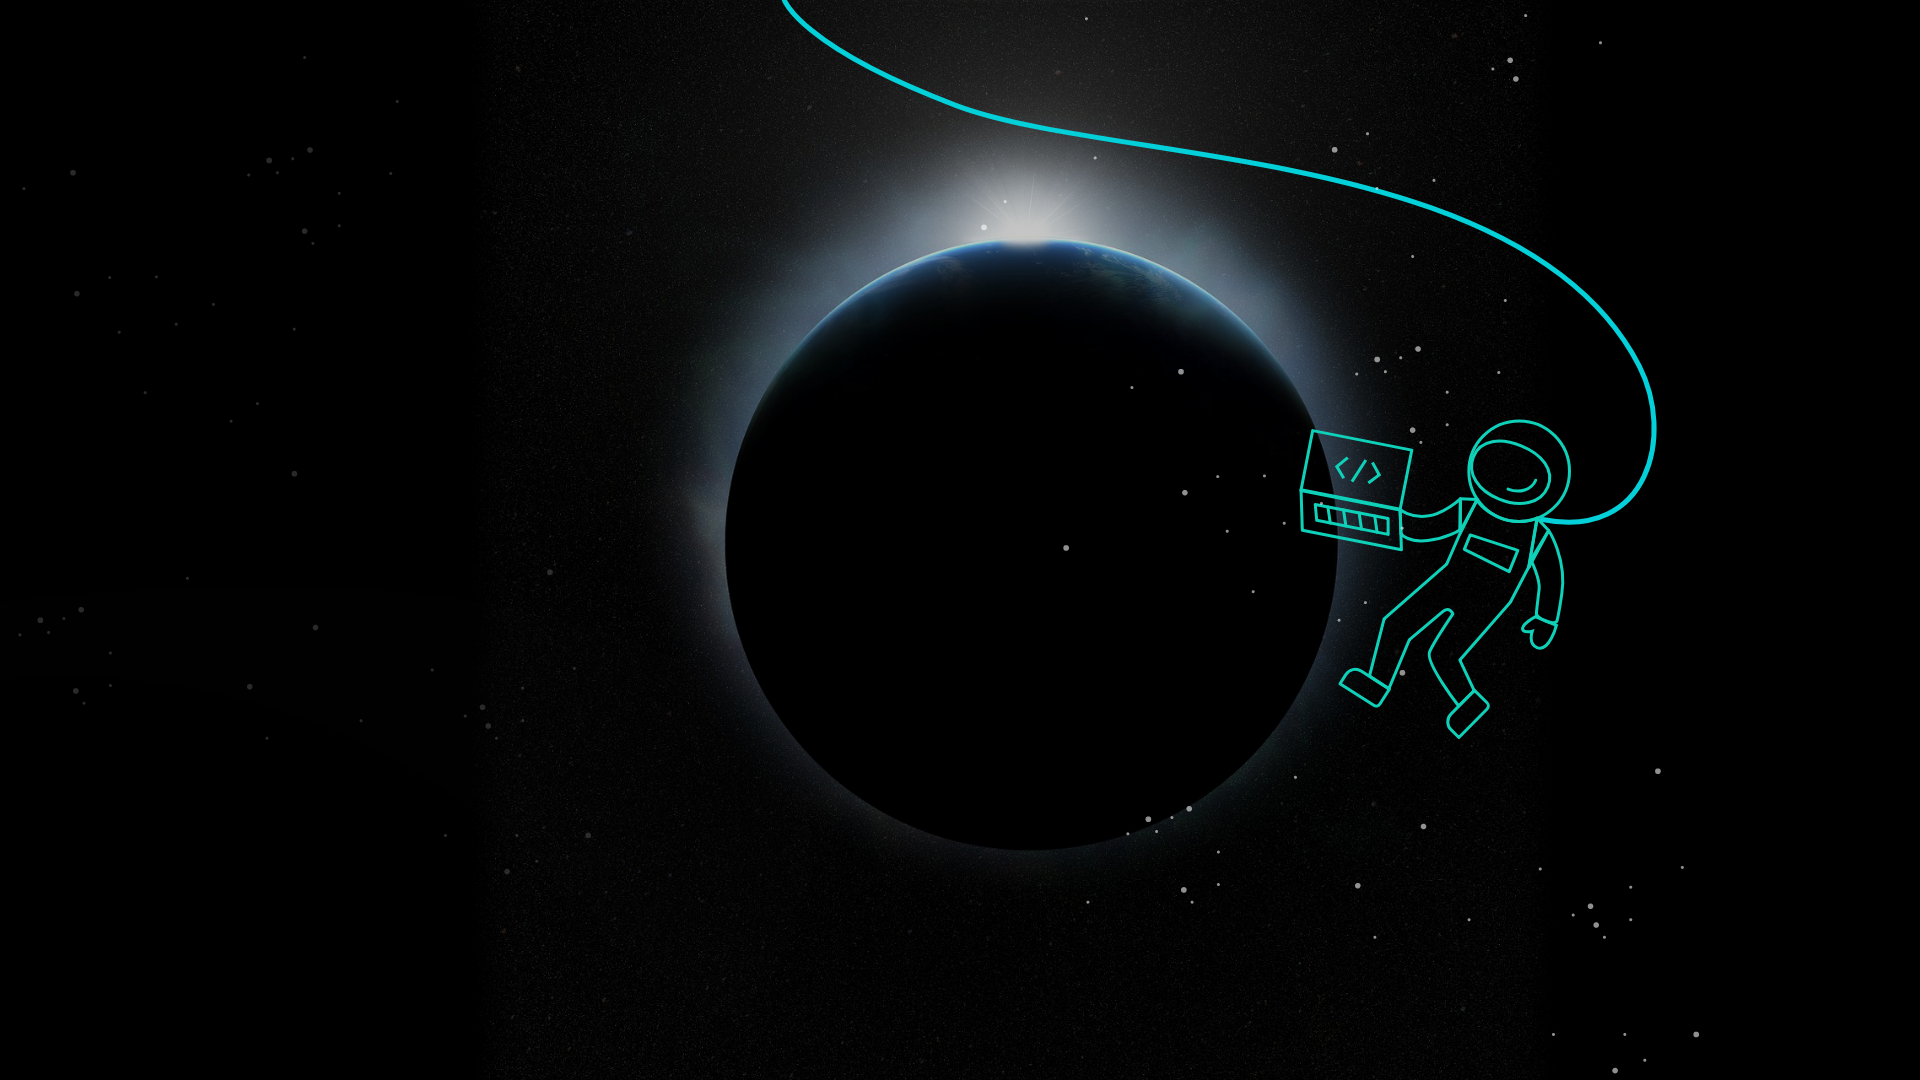
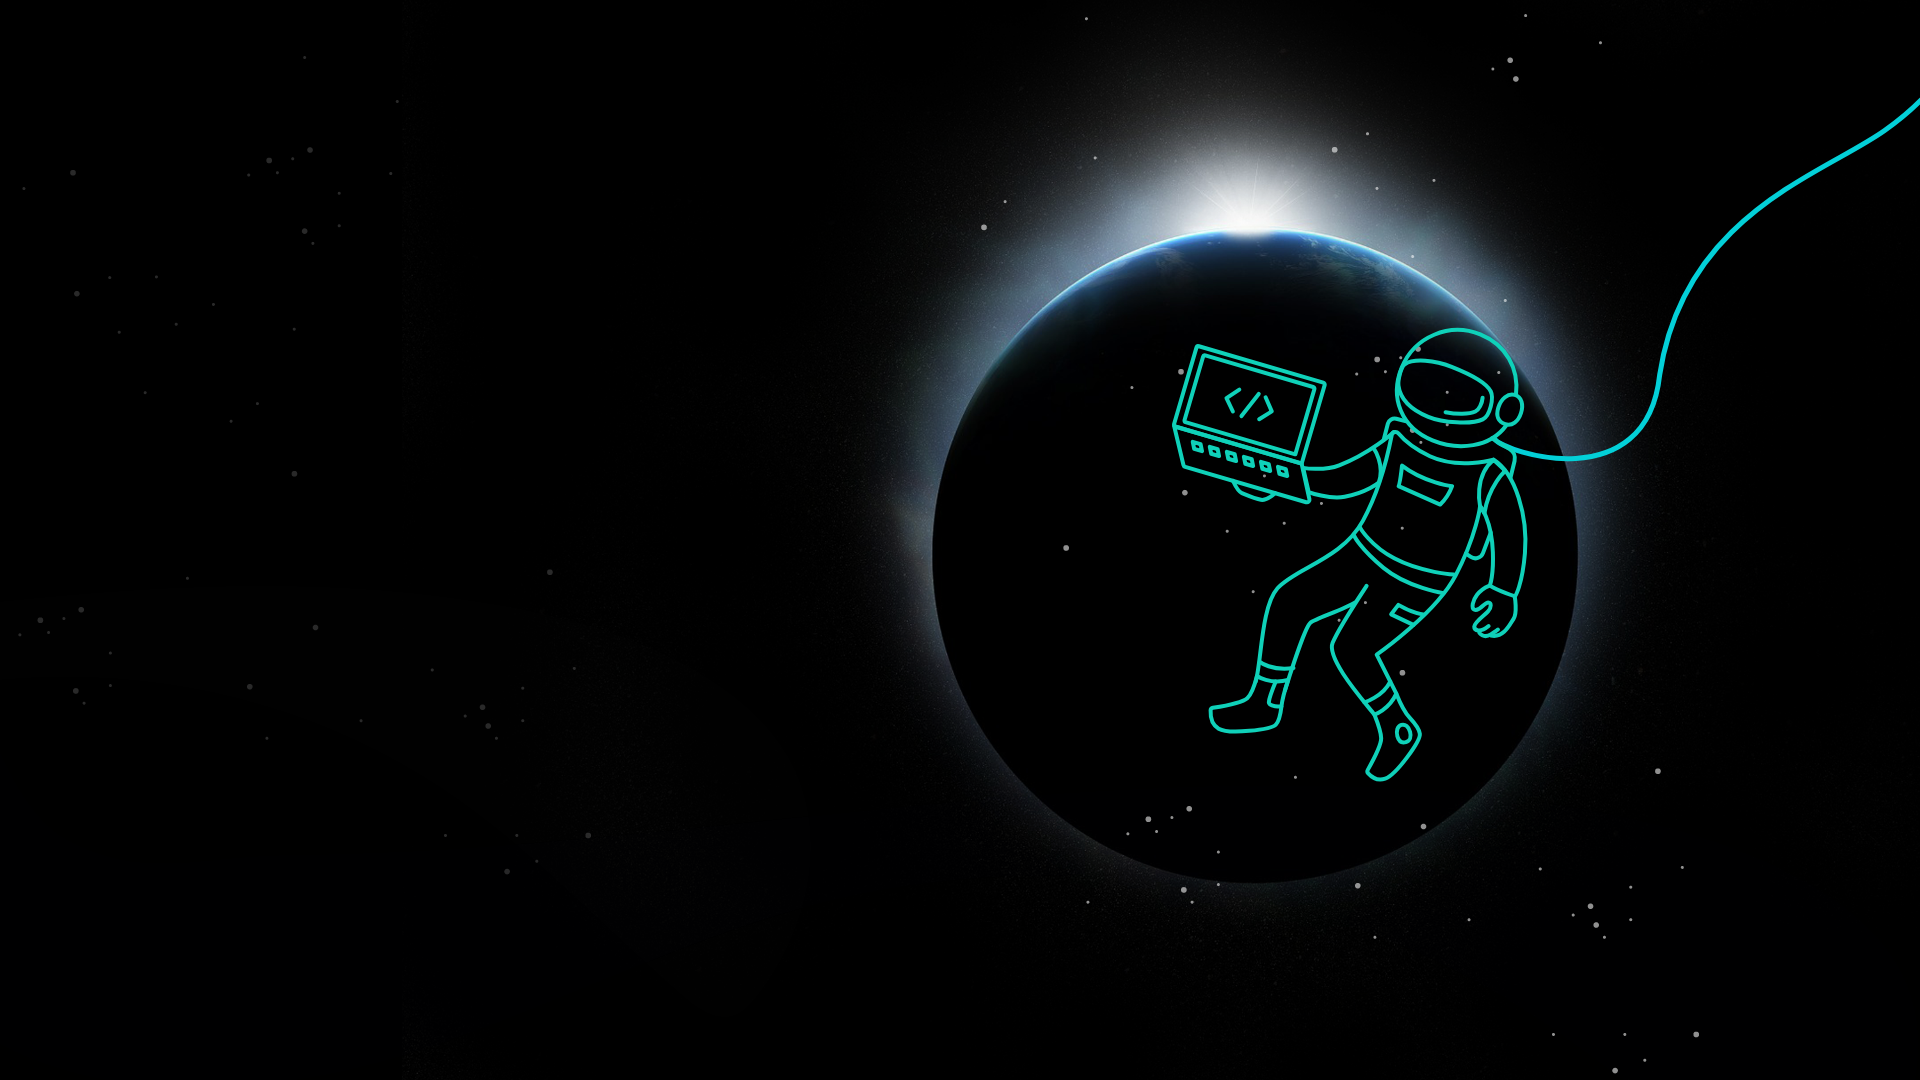
change in background images

diff --git a/index.html b/index.html
@@ -10,6 +10,8 @@
 
     <!-- Bootstrap CSS -->
     <link rel="stylesheet" href="assets/css/bootstrap.min.css">
+    <!-- Fontawesome -->
+    <link rel="stylesheet" href="https://use.fontawesome.com/releases/v5.8.1/css/all.css" integrity="sha384-50oBUHEmvpQ+1lW4y57PTFmhCaXp0ML5d60M1M7uH2+nqUivzIebhndOJK28anvf" crossorigin="anonymous">
     <!-- Icon -->
     <link rel="stylesheet" href="assets/fonts/line-icons.css">
     <!-- Slicknav -->
@@ -26,7 +28,6 @@
     <link rel="stylesheet" href="assets/css/general.css">
     <!-- Responsive Style -->
     <link rel="stylesheet" href="assets/css/responsive.css">
-
 </head>
 
 <body>
@@ -38,19 +39,19 @@
                 <!-- Brand and toggle get grouped for better mobile display -->
                 <a href="index.html" class="navbar-brand"><img src="assets/img/Home/brand-sy.svg" alt=""></a>
                 <button class="navbar-toggler" type="button" data-toggle="collapse" data-target="#navbarCollapse" aria-controls="navbarCollapse" aria-expanded="false" aria-label="Toggle navigation">
-                  <i class="lni-menu"></i>
-                </button>
+          <i class="lni-menu"></i>
+        </button>
                 <div class="collapse navbar-collapse" id="navbarCollapse">
                     <ul class="navbar-nav mr-auto w-100 justify-content-end clearfix">
                         <li class="nav-item">
                             <a class="nav-link" href="service.html">
-                        Servicios
-                      </a>
+                Servicios
+              </a>
                         </li>
                         <li class="nav-item">
-                            <a class="nav-link" href="team.html">
-                        Blog
-                      </a>
+                            <a class="nav-link" href="https://medium.com/synaptic-cl">
+                Blog
+              </a>
                         </li>
                     </ul>
                 </div>
@@ -70,7 +71,7 @@
             <div class="col-lg-6 col-md-12 col-sm-12 padding-none feature-bg ">
                 <div class="header-sy-right ">
                     <div>
-                        <h1>Juntos <br> Creamos <br> Otro <br> Espacio <br>
+                        <h1>Juntos<br> Creamos<br> <span>Otro</span> <br> Espacio<br>
                         </h1>
                     </div>
                 </div>
@@ -181,34 +182,41 @@
                                     <label for="exampleInputPassword1 "><i class="fas fa-envelope "></i> Email</label>
                                     <input type="password " class="form-control " id="exampleInputPassword1 " placeholder=" Email ">
                                 </div>
-                                <button type="submit " class="button-synaptic ">Enviar</button>
+                                <div class="feature-item-sy wow fadeInDown " data-wow-duration="1000ms " data-wow-delay="300ms ">
+                                    <div class="icon-sy">
+                                        Enviar información
+                                        <i class="lni-angle-double-right"></i>
+                                    </div>
+                                </div>
                             </form>
                         </div>
                     </div>
 
                 </div>
-                <div class="footer-section-info cd-section-text col-md-12 col-sm-12 padding-none feature-bg ">
-                    <div>
-                        <p>Av. Mariano Sanchéz Fontecilla #368</p>
-                        <p>Teléfono</p>
-                        <p>Av. Mariano Sanchéz Fontecilla #368</p>
-                        <div>
-                            <img src="assets/img/Home/brand-sy.svg " class="logo-image-footer ">
+                <div class="footer-section-info col-md-12 col-sm-12 padding-none feature-bg">
+                    <div class="row">
+                        <div class="contact-section-info col-md-6 col-sm-12 feature-bg">
+                            <p>Av. Mariano Sanchéz Fontecilla #368</p>
+                            <p>Teléfono</p>
+                            <p>Av. Mariano Sanchéz Fontecilla #368</p>
                         </div>
-                    </div>
-                    <div class="footer-social ">
-                        <a class="footer-social twitter " href="https://twitter.com/synaptic_cl " target="_blank " aria-label="twitter ">
-                            <i class="fab fa-twitter-square "></i>
-                        </a>
-                        <a class="footer-social medium " href="https://medium.com/synaptic-cl " target="_blank " aria-label="medium ">
-                            <i class="fab fa-medium "></i></i>
-                        </a>
-                        <a class="footer-social linkedin " href="https://www.linkedin.com/company/synaptic-cl " target="_blank " aria-label="linkedin ">
-                            <i class="fab fa-linkedin "></i>
-                        </a>
-                        <a class="footer-social instagram " href="https://www.instagram.com/synaptic_cl/ " target="_blank " aria-label="instagram ">
-                            <i class="fab fa-instagram "></i>
-                        </a>
+                        <div class="footer-social col-md-6 col-sm-12 feature-bg ">
+                            <div>
+                                <img class="logo-image-footer" src="assets/img/Home/brand-sy.svg ">
+                                <a class="footer-social twitter " href="https://twitter.com/synaptic_cl " target="_blank " aria-label="twitter ">
+                                    <i class="fab fa-twitter-square"></i>
+                                </a>
+                                <a class="footer-social medium " href="https://medium.com/synaptic-cl " target="_blank " aria-label="medium ">
+                                    <i class="fab fa-medium"></i>
+                                </a>
+                                <a class="footer-social linkedin " href="https://www.linkedin.com/company/synaptic-cl " target="_blank " aria-label="linkedin ">
+                                    <i class="fab fa-linkedin"></i>
+                                </a>
+                                <a class="footer-social instagram " href="https://www.instagram.com/synaptic_cl/ " target="_blank " aria-label="instagram ">
+                                    <i class="fab fa-instagram"></i>
+                                </a>
+                            </div>
+                        </div>
                     </div>
                 </div>
             </div>

diff --git a/team.html b/team.html
@@ -26,11 +26,8 @@
     <link rel="stylesheet" href="assets/css/theme.css">
     <link rel="stylesheet" href="assets/css/general.css">
     <link rel="stylesheet" href="assets/css/main.css">
-
-
     <!-- Responsive Style -->
     <link rel="stylesheet" href="assets/css/responsive.css">
-
 </head>
 
 <body>
@@ -42,19 +39,19 @@
                 <!-- Brand and toggle get grouped for better mobile display -->
                 <a href="index.html" class="navbar-brand"><img src="assets/img/Home/brand-sy.svg" alt=""></a>
                 <button class="navbar-toggler" type="button" data-toggle="collapse" data-target="#navbarCollapse" aria-controls="navbarCollapse" aria-expanded="false" aria-label="Toggle navigation">
-                      <i class="lni-menu"></i>
-                    </button>
+					<i class="lni-menu"></i>
+				</button>
                 <div class="collapse navbar-collapse" id="navbarCollapse">
                     <ul class="navbar-nav mr-auto w-100 justify-content-end clearfix">
                         <li class="nav-item">
                             <a class="nav-link" href="service.html">
-                            Servicios
-                          </a>
+								Servicios
+							</a>
                         </li>
                         <li class="nav-item">
                             <a class="nav-link" href="team.html">
-                            Blog
-                          </a>
+								Blog
+							</a>
                         </li>
                     </ul>
                 </div>
@@ -72,7 +69,8 @@
                         <h1>Nuestra</h1>
                         <h1>Tripulación</h1>
                         <br>
-                        <p>Somos amantes de la tecnología <br> especializados en desarrollar <br> productos que resuelven problemas <br> de tu negocio</p>
+                        <p>Somos amantes de la tecnología <br> especializados en desarrollar <br> productos que resuelven problemas
+                            <br> de tu negocio</p>
                     </div>
                 </div>
             </div>

diff --git a/assets/css/home.css b/assets/css/home.css
@@ -87,6 +87,10 @@
     line-height: 0.9;
 }
 
+.header-sy-right h1>span {
+    color: #27edb6;
+}
+
 .header-sy-right div h1 {
     margin-left: 10rem;
     color: white;
@@ -204,6 +208,12 @@ div.feature-content p {
     margin: 0;
 }
 
+.logo-image-footer {
+    display: block;
+    margin-bottom: 0.4rem;
+    ≤
+}
+
 .footer-section-text {
     display: flex;
     align-items: center;
@@ -230,16 +240,27 @@ div.feature-content p {
 
 .footer-section-info {
     justify-content: space-between;
-    margin-top: 2rem;
+    margin: 2rem;
 }
 
-.footer-social {
-    margin: 1rem 0.5rem 2rem 0;
+.contact-section-info {
+    font-size: 1rem;
+    line-height: initial;
+    font-weight: lighter;
+    margin-bottom: 0.4rem;
+    padding-left: 9rem;
 }
 
-a.footer-social .fab {
+div.footer-social {
+    display: flex;
+    justify-content: flex-end;
+    padding-right: 10rem;
+}
+
+a.footer-social i {
     font-size: 1.7rem;
     color: white;
+    margin: 0.25rem;
 }
 
 div.form-group {

diff --git a/assets/css/bootstrap.min.css b/assets/css/bootstrap.min.css
@@ -624,7 +624,8 @@ pre code {
     -ms-flex-wrap: wrap;
     flex-wrap: wrap;
     margin-right: -15px;
-    margin-left: -15px
+    margin-left: -15px;
+    width: 100%;
 }
 
 .no-gutters {
@@ -1910,11 +1911,9 @@ pre code {
     padding: .375rem .75rem;
     font-size: 1rem;
     line-height: 1.5;
-    color: #495057;
-    background-color: #fff;
+    color: #fff;
     background-clip: padding-box;
     border: 1px solid #ced4da;
-    border-radius: .25rem;
     transition: border-color .15s ease-in-out, box-shadow .15s ease-in-out
 }
 
@@ -1930,8 +1929,7 @@ pre code {
 }
 
 .form-control:focus {
-    color: #495057;
-    background-color: #fff;
+    color: #0FD1B9;
     border-color: #80bdff;
     outline: 0;
     box-shadow: 0 0 0 .2rem rgba(0, 123, 255, .25)
@@ -9191,8 +9189,8 @@ a.text-dark:hover {
 
 @media print {
     *,
-    ::after,
-    ::before {
+     ::after,
+     ::before {
         text-shadow: none!important;
         box-shadow: none!important
     }

diff --git a/assets/css/main.css b/assets/css/main.css
@@ -74,7 +74,7 @@ a:not([href]):not([tabindex]) {
 }
 
 .section-header p {
-    text: center;
+    text-align: center;
     font-weight: 400;
     line-height: 26px;
 }
@@ -628,7 +628,6 @@ hr {
     border-bottom: 1px solid #f1f1f1;
     text-decoration: none;
     display: inline-block;
-    float: left;
     clear: both;
     position: relative;
     outline: 0;
@@ -1721,7 +1720,6 @@ hr {
     width: 100%;
     margin-bottom: 20px;
     font-size: 14px;
-    border-radius: 4px;
     -webkit-transition: all 0.3s;
     -moz-transition: all 0.3s;
     transition: all 0.3s;

diff --git a/assets/css/team.css b/assets/css/team.css
@@ -1,7 +1,3 @@
 .section-team {
     margin: 3rem 0;
 }
-
-.container {
-    background-image: url("../img/team/stars-background.png");
-}
